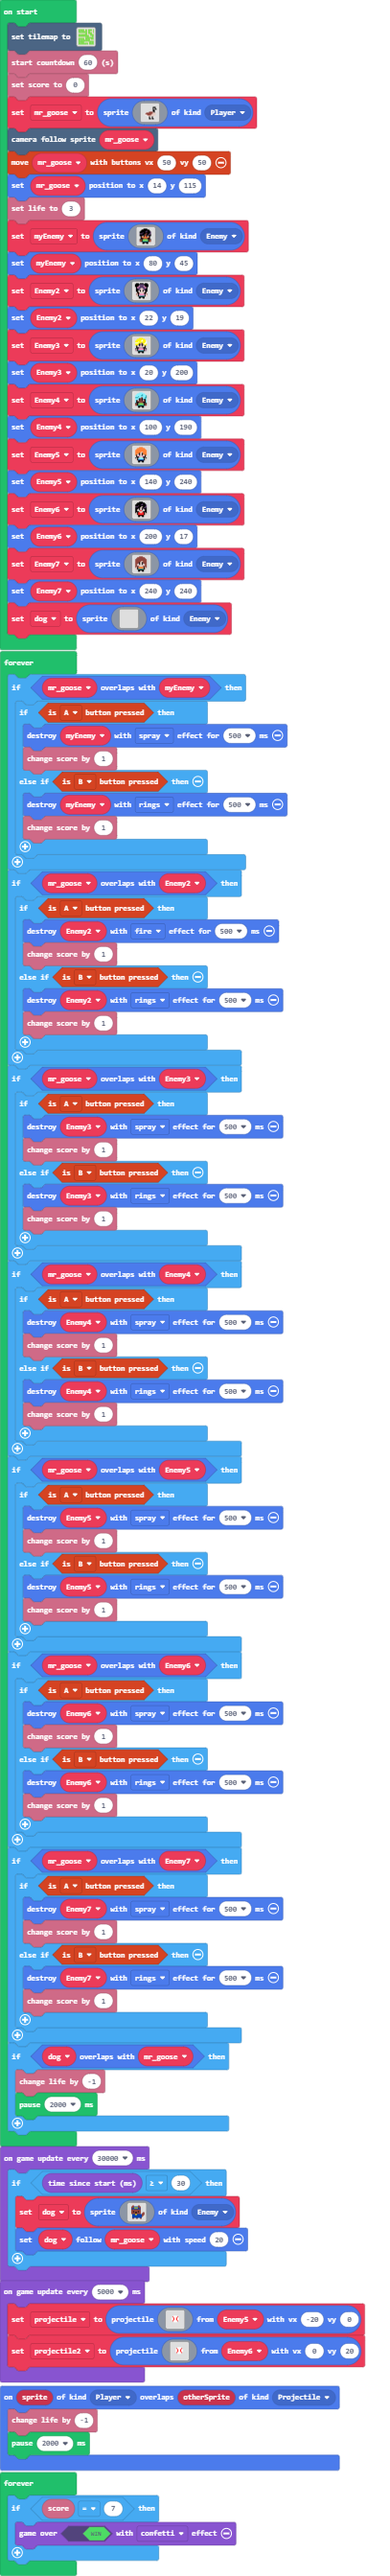
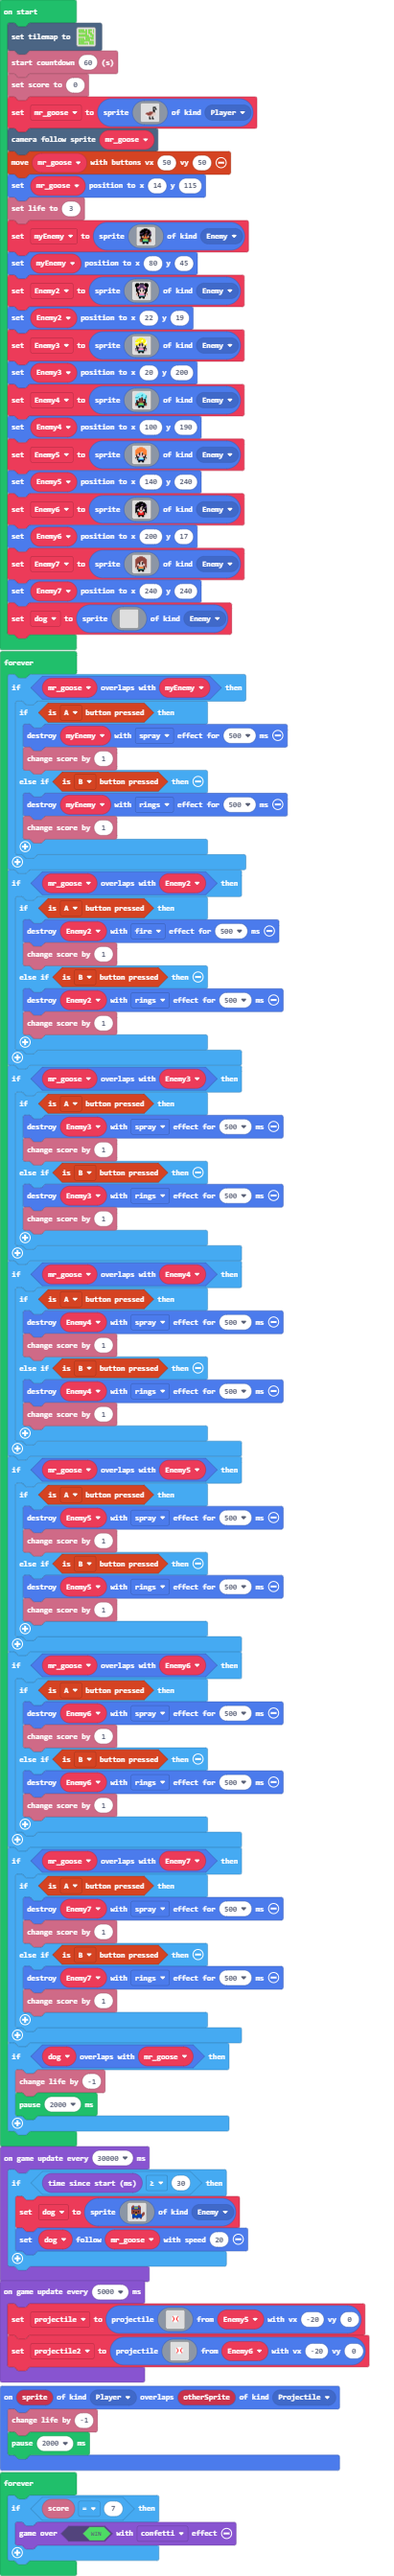
Update main.blocks, main.ts

diff --git a/main.ts b/main.ts
@@ -238,7 +238,7 @@ game.onUpdateInterval(5000, function () {
         . . . . . . . . . . . . . . . . 
         . . . . . . . . . . . . . . . . 
         . . . . . . . . . . . . . . . . 
-        `, Enemy6, 0, 20)
+        `, Enemy6, -20, 0)
 })
 forever(function () {
     if (mr_goose.overlapsWith(myEnemy)) {
